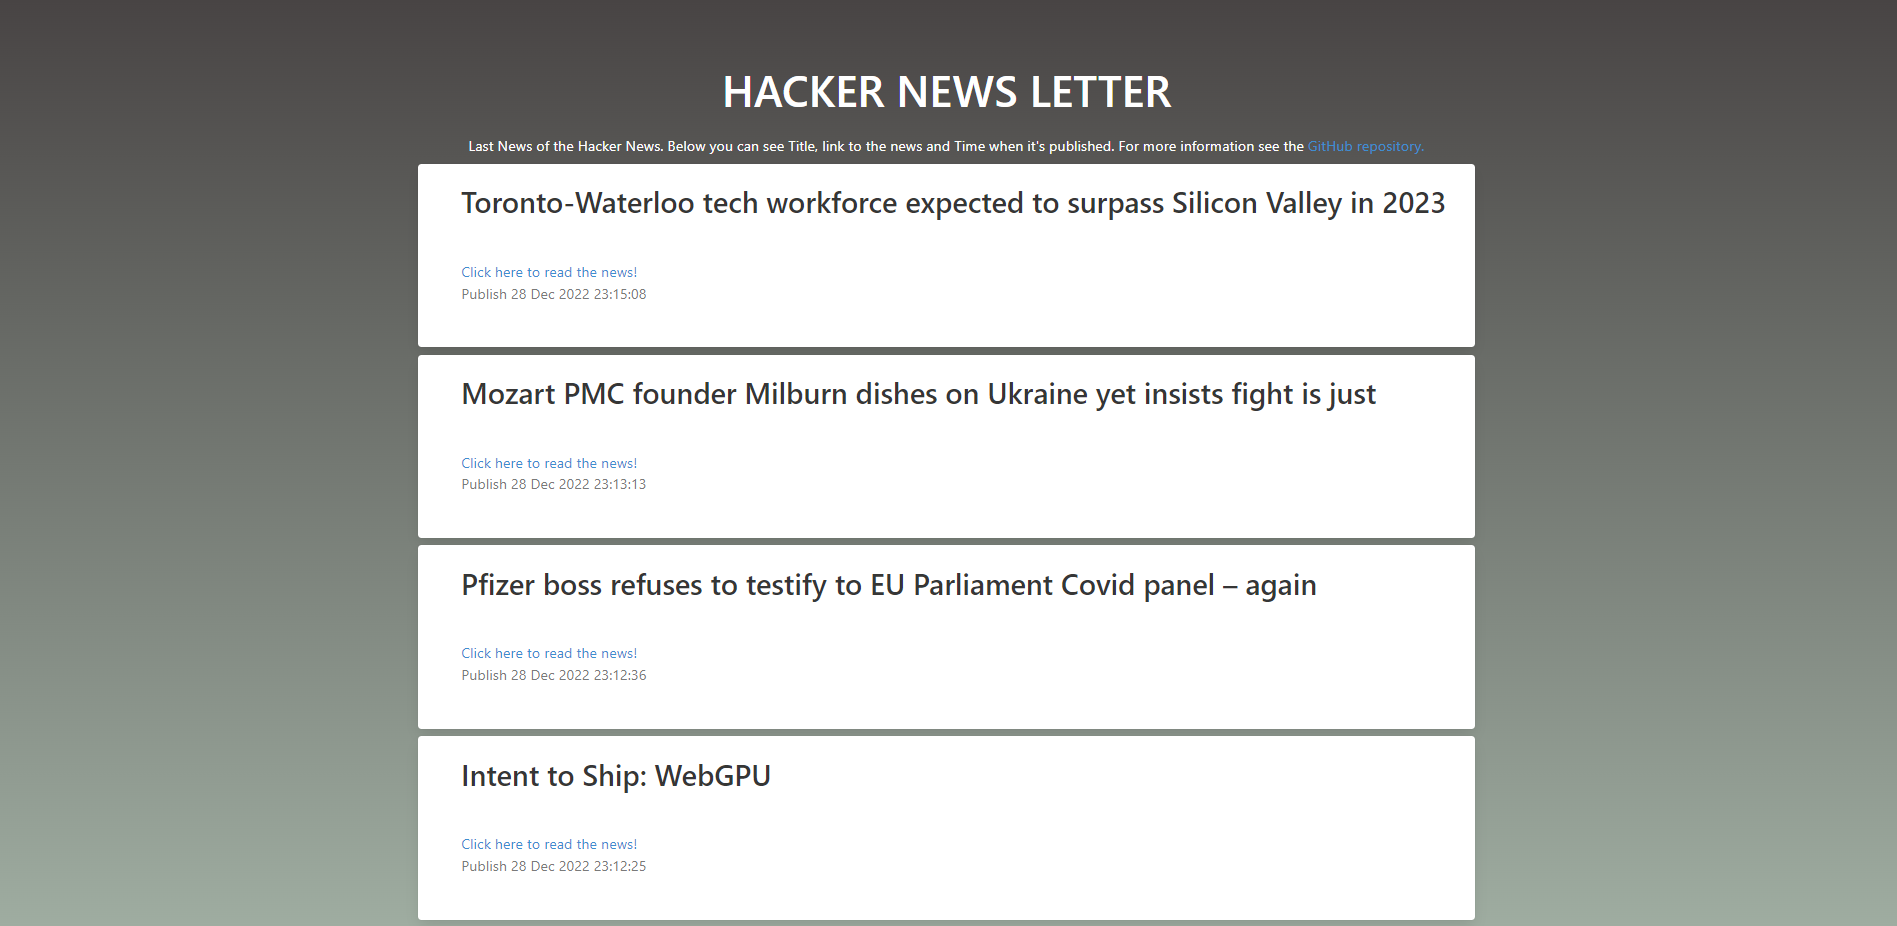
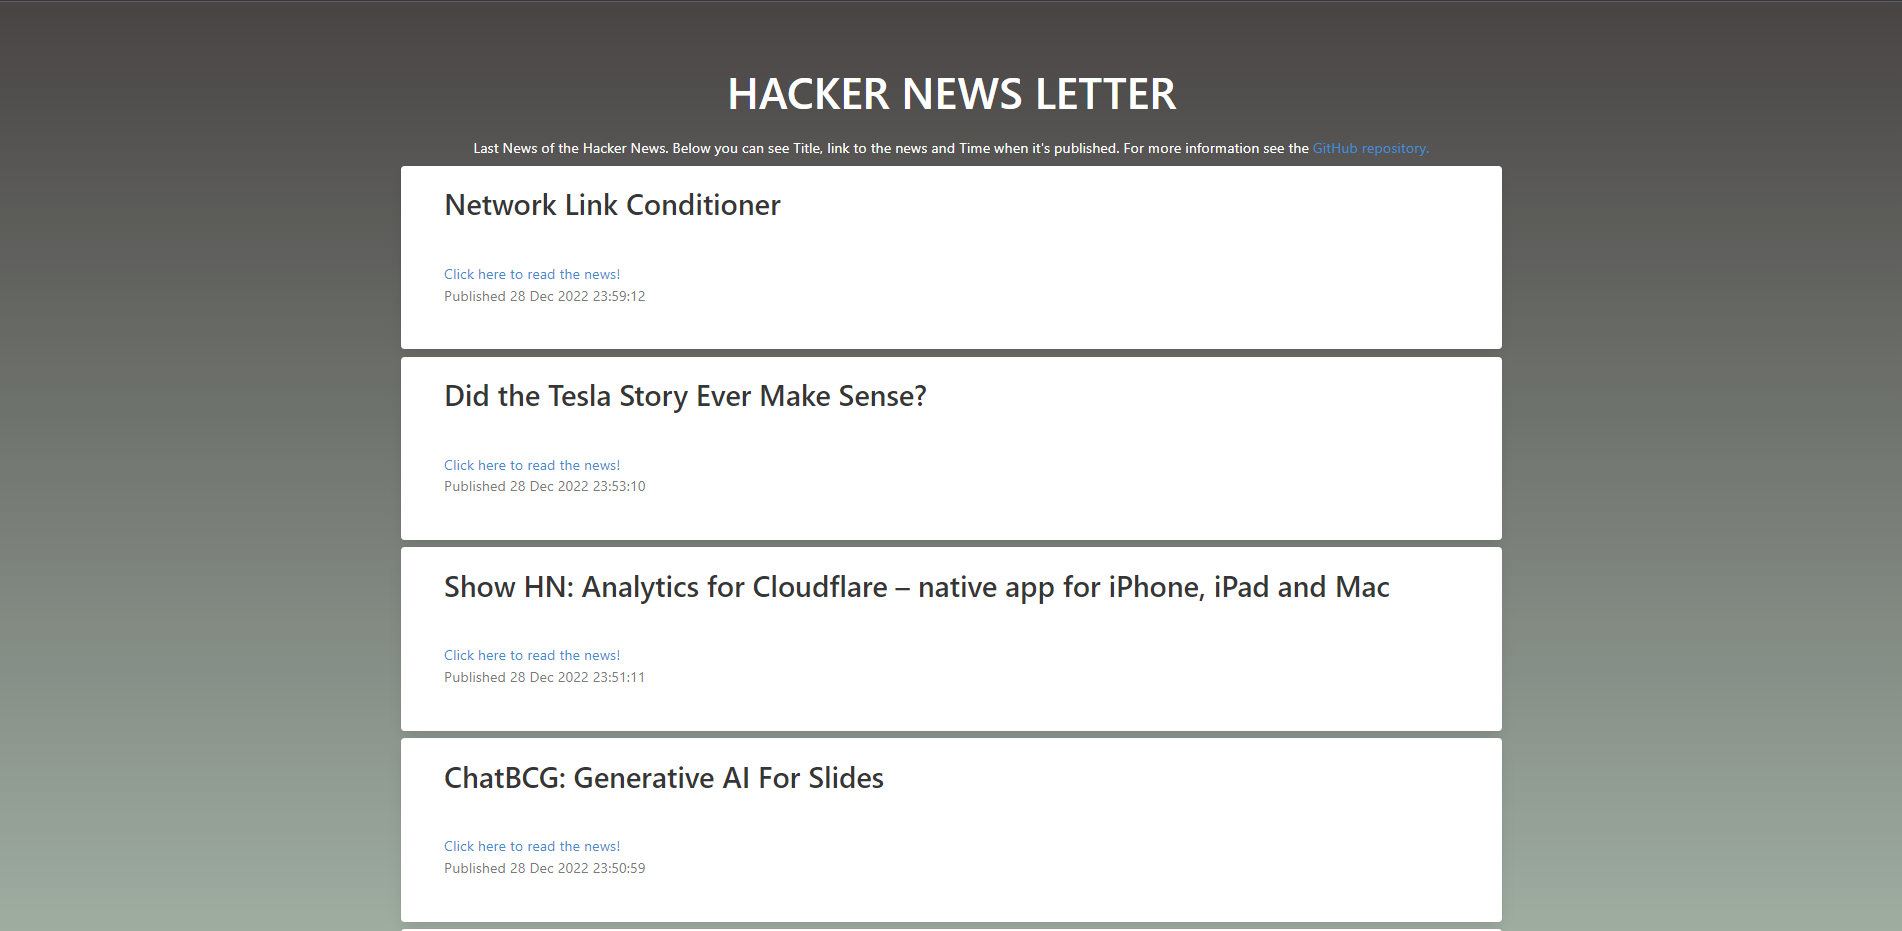
Sistemato Published nella scritta di frontend

Changed region(s): [[0.1866, 0.1814, 0.8086, 1.0], [0.3732, 0.0605, 0.622, 0.121], [0.2488, 0.1512, 0.7464, 0.1814]]

diff --git a/Javascript Advanced/PROGETTO FINALE/src/javascript/modules/htmlElements.js b/Javascript Advanced/PROGETTO FINALE/src/javascript/modules/htmlElements.js
@@ -49,7 +49,7 @@ export function createDiv(className){
                      //----------------time is inside card content1----------------
                      let pTime = document.createElement('div');
                      pTime.className = "content has-text-grey";
-                     pTime.textContent ='Publish '+timeOfNews;
+                     pTime.textContent ='Published '+timeOfNews;
                      divCardContent1.appendChild(pTime);
  }
  
